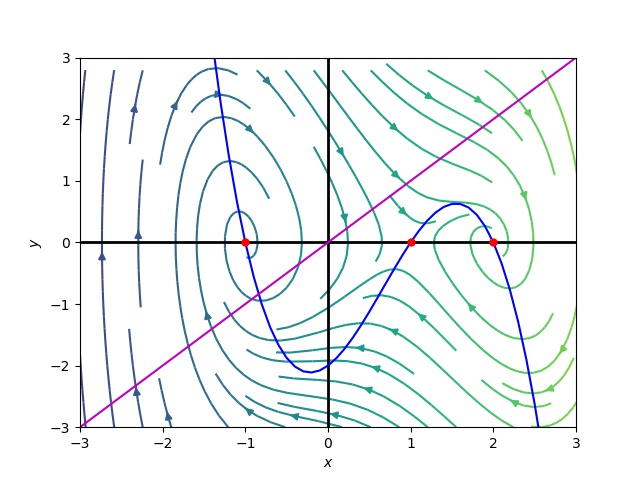
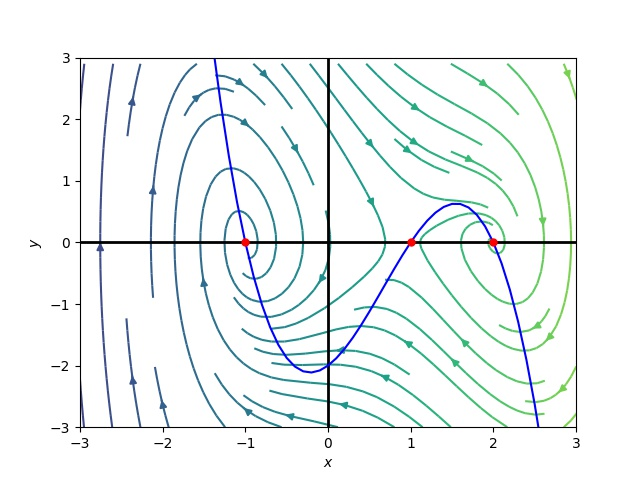
0915_1

diff --git a/flow_vector/pp.py b/flow_vector/pp.py
@@ -1,4 +1,5 @@
 # 2020.8.22 Vector flow map
+# -*- coding: utf-8 -*-
 
 import sympy as sm
 import numpy as np
@@ -36,10 +37,12 @@ def main():
 	y_p = - x_p**3 + 2*x_p**2 + x_p - 2
 
 	y_pp = arange(-4, 4, 0.1)  # x座標を-10 から 10 まで 0.1 きざみで取得
-	x_pp = y_pp
+	x_pp = 0 # y = 0
 
-	plot(x_p, y_p, 'b-')  # f1 plot
-	plot(x_pp, y_pp, 'm-')  # f2 plot
+	# f1 plot
+	plot(x_p, y_p, 'b-')
+	# f2 plot
+	if x_pp > 0: plot(x_pp, y_pp, 'm-')
 
 	for point in fp:
 		plot(point[0],point[1],"red", marker = "o", markersize = 5.0)
